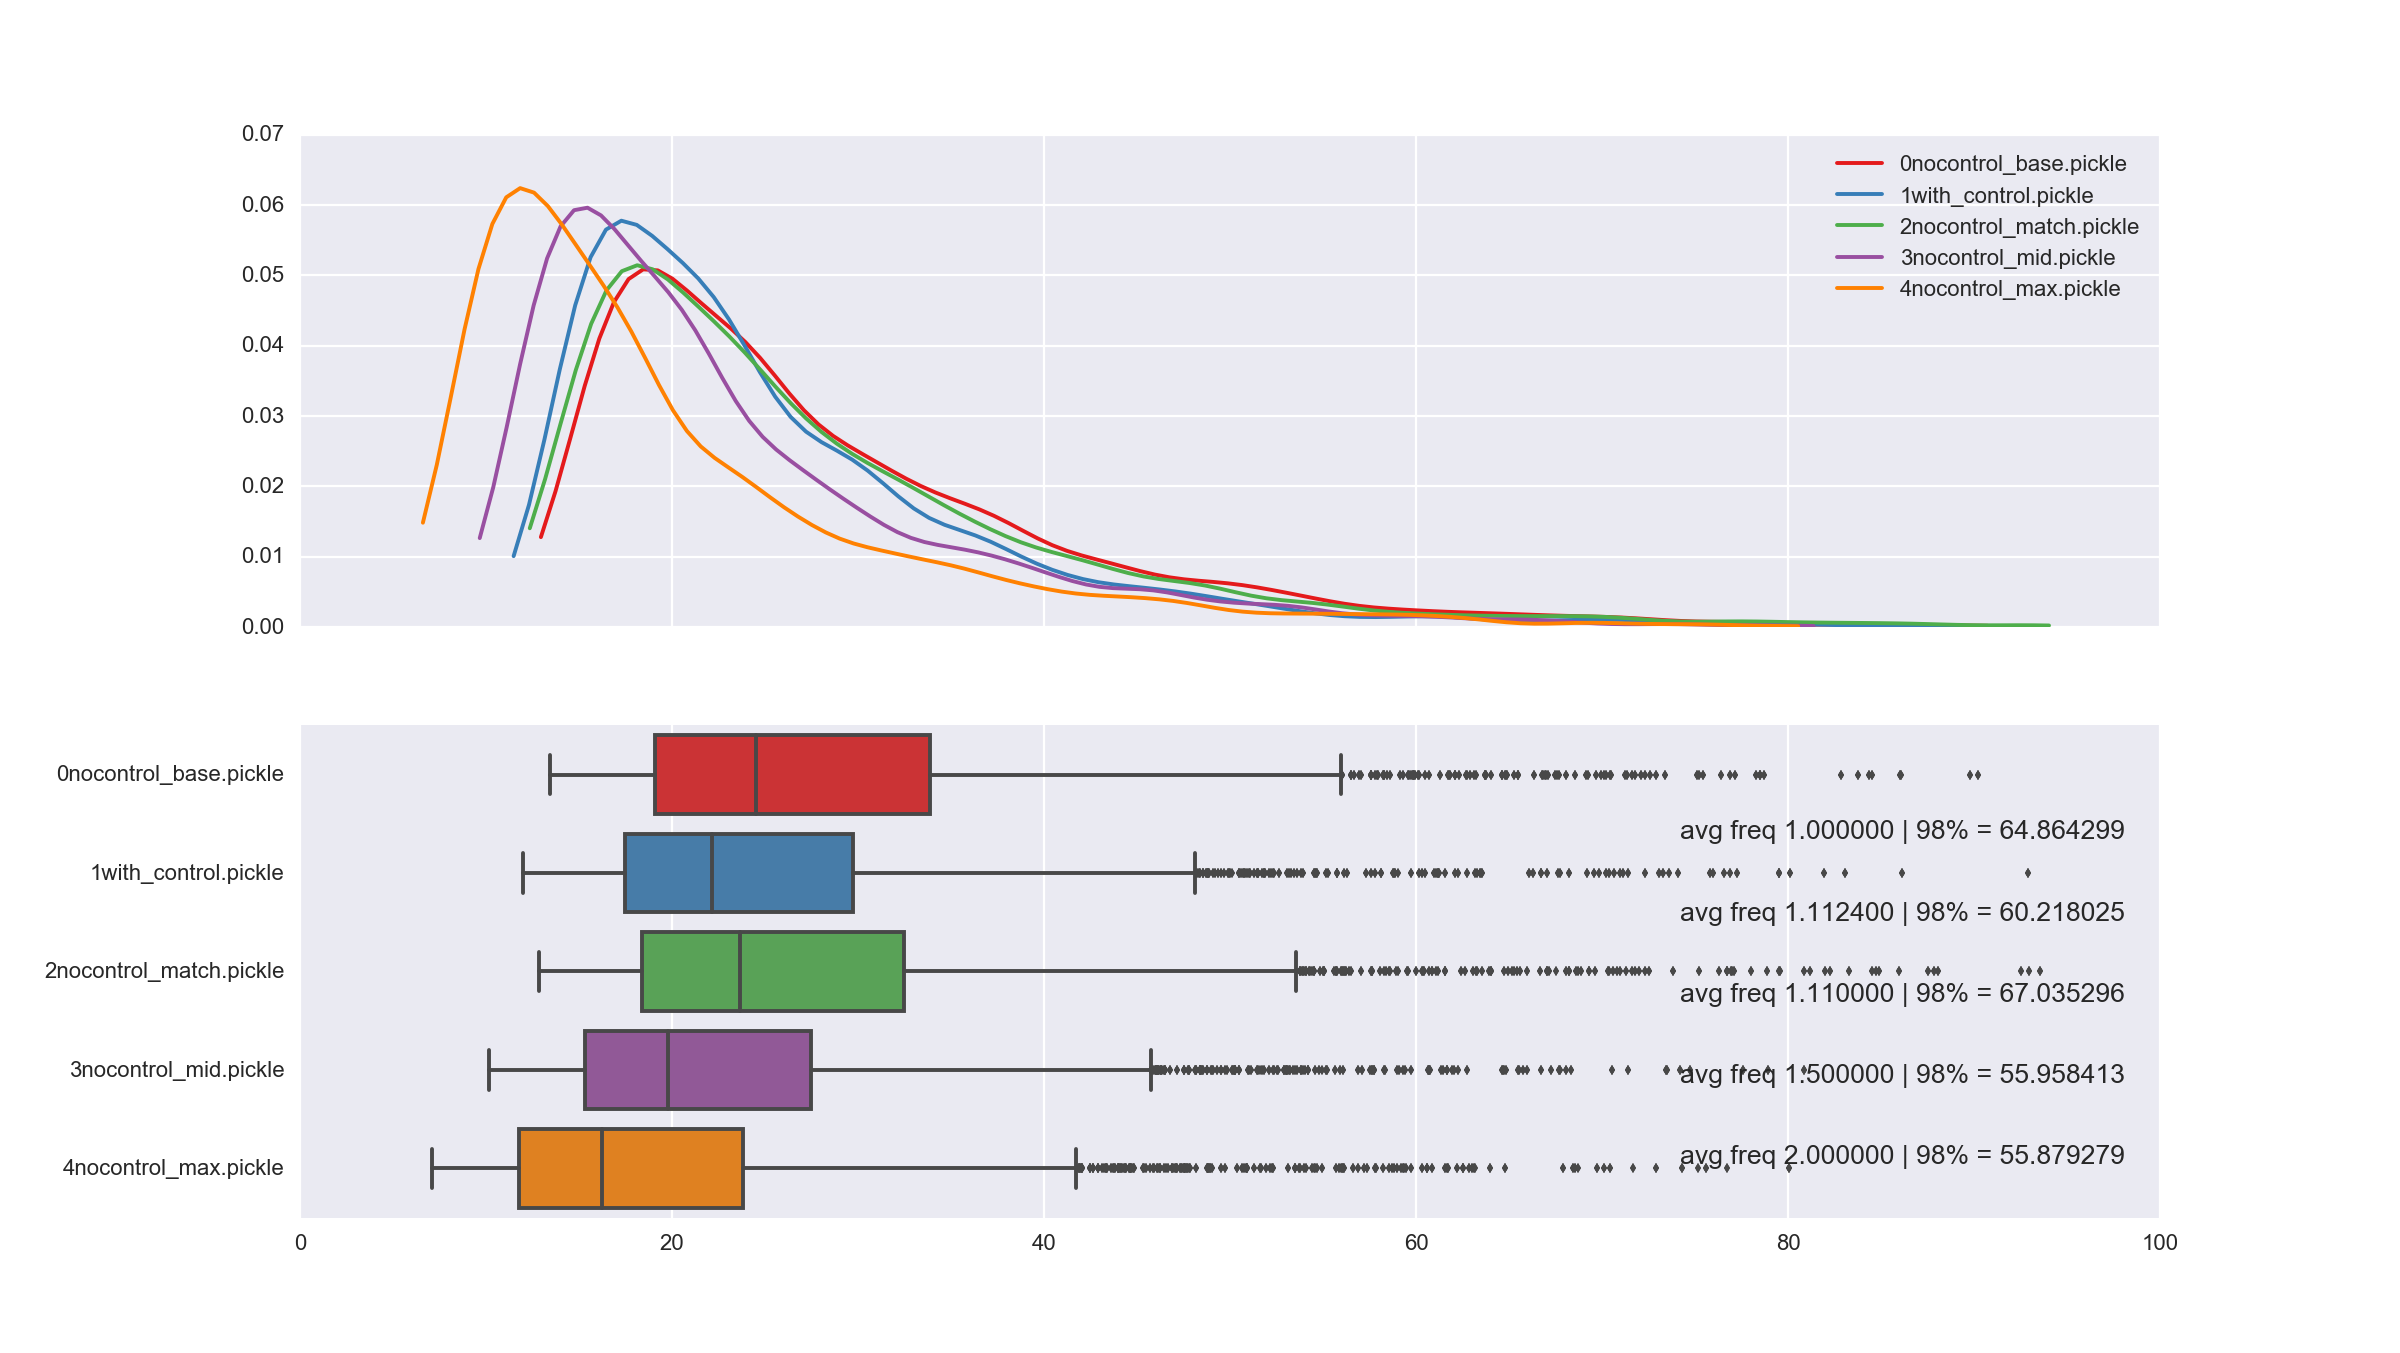
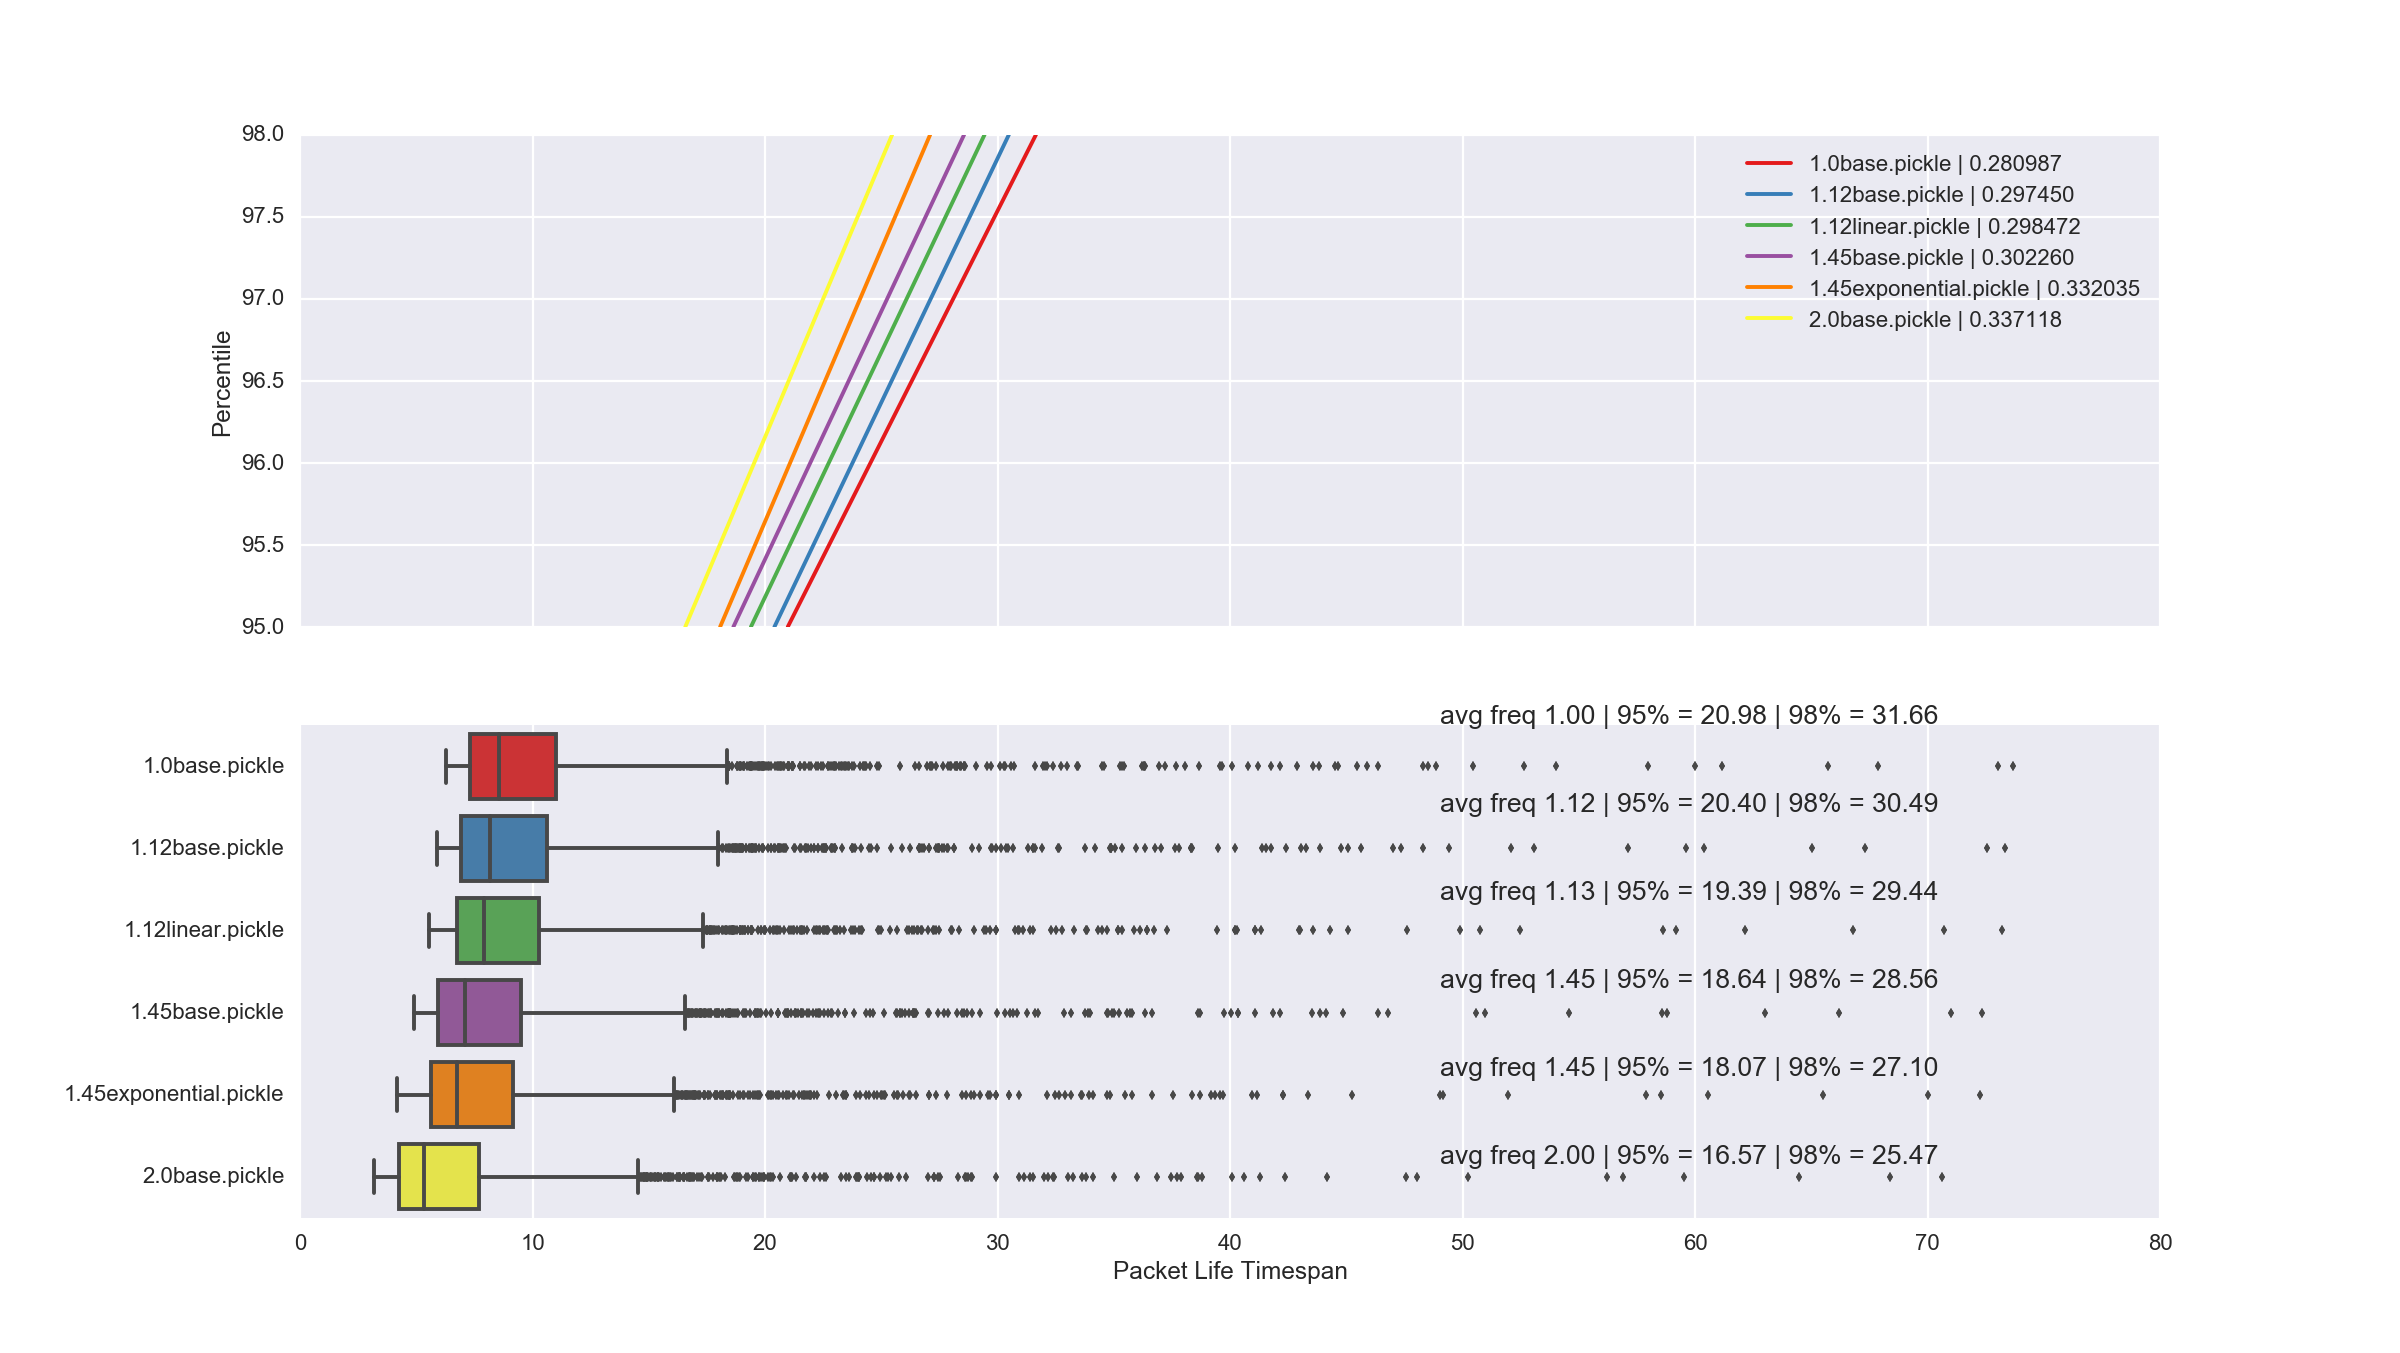
Broadcast exponential

diff --git a/PostVis_Abstract.py b/PostVis_Abstract.py
@@ -32,6 +32,10 @@ def show_lifetimes():
     tail_latency_95 = dict()
     tail_latency_98 = dict()
 
+    # maps filenames to colors
+    col_map = dict()
+    col_index = 0
+
     for file in files:
         data = pickle.load(open('data/lifetimes/' + file, 'rb'))
 
@@ -39,6 +43,9 @@ def show_lifetimes():
         avg_freq[file] = data['avg_freq']
         tail_latency_95[file] = np.percentile(data['lifetimes'], 95)
         tail_latency_98[file] = np.percentile(data['lifetimes'], 98)
+
+        col_map[file] = sns.color_palette()[col_index]
+        col_index += 1
 
     # sort by mean
     sorted_values = sorted(lifetimes.items(), key=lambda d: d[0][0])
@@ -50,8 +57,14 @@ def show_lifetimes():
         filename = da[0]
         data_entry = da[1]
 
-        sns.distplot(ax=ax[0], a=data_entry, hist=False, label=filename)
+        slope = 3 / (tail_latency_98[filename] - tail_latency_95[filename])
+        ax[0].plot([tail_latency_95[filename], tail_latency_98[filename]], [95, 98],
+                   color=col_map[filename], label='%s | %f' %(filename, slope))
         lifetimes[filename] = lifetimes[filename][:least_samples]
+
+    handles, labels = ax[0].get_legend_handles_labels()
+    labels, handles = zip(*sorted(zip(labels, handles), key=lambda t: t[0]))
+    ax[0].legend(handles, labels)
 
     data = pd.DataFrame(lifetimes, columns=files)
     sns.boxplot(ax=ax[1], data=data, orient='h', whis=2)
@@ -61,9 +74,11 @@ def show_lifetimes():
         freq = avg_freq[file]
         tail95 = tail_latency_95[file]
         tail98 = tail_latency_98[file]
-        # fig.text(0.7, 0.14 + index, "avg freq %f | 98%% = %f" % (freq, tail))
-        fig.text(0.7, 0.15 + index, "95%% = %f | 98%% = %f" % (tail95, tail98))
-        index += 0.075
+        fig.text(0.6, 0.14 + index, "avg freq %.2f | 95%% = %.2f | 98%% = %.2f" % (freq, tail95, tail98))
+        index += 0.065
+
+    ax[0].set_ylabel('Percentile')
+    ax[1].set_xlabel('Packet Life Timespan')
 
     plt.show()
     plt.close()

diff --git a/AbstractHost.py b/AbstractHost.py
@@ -213,6 +213,7 @@ class AbstractHost:
 
     def arrival_basic(self):
         self.freq = np.interp(self.packets.qsize(), [0, 4], [self.min_freq, self.max_freq])
+        self.freq = np.interp(np.exp(self.packets.qsize()), [0, 4], [self.min_freq, self.max_freq])
 
     def arrival_back_propagate(self):
         pass

diff --git a/Vis_Abstract.py b/Vis_Abstract.py
@@ -20,7 +20,7 @@ def show_graphs(config):
     print 'starting graphs'
 
     # show_network(config)
-    show_dist_pair(config)
+    # show_dist_pair(config)
     show_packet_lifetimes(config)
     # show_queuesize_history(config)
 
